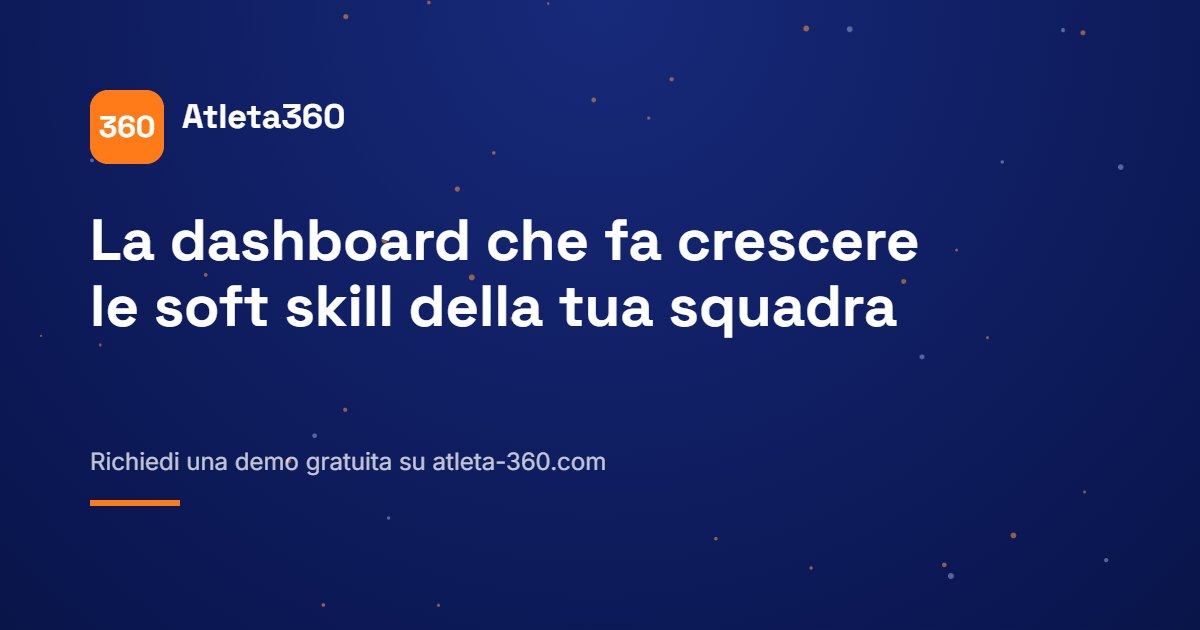
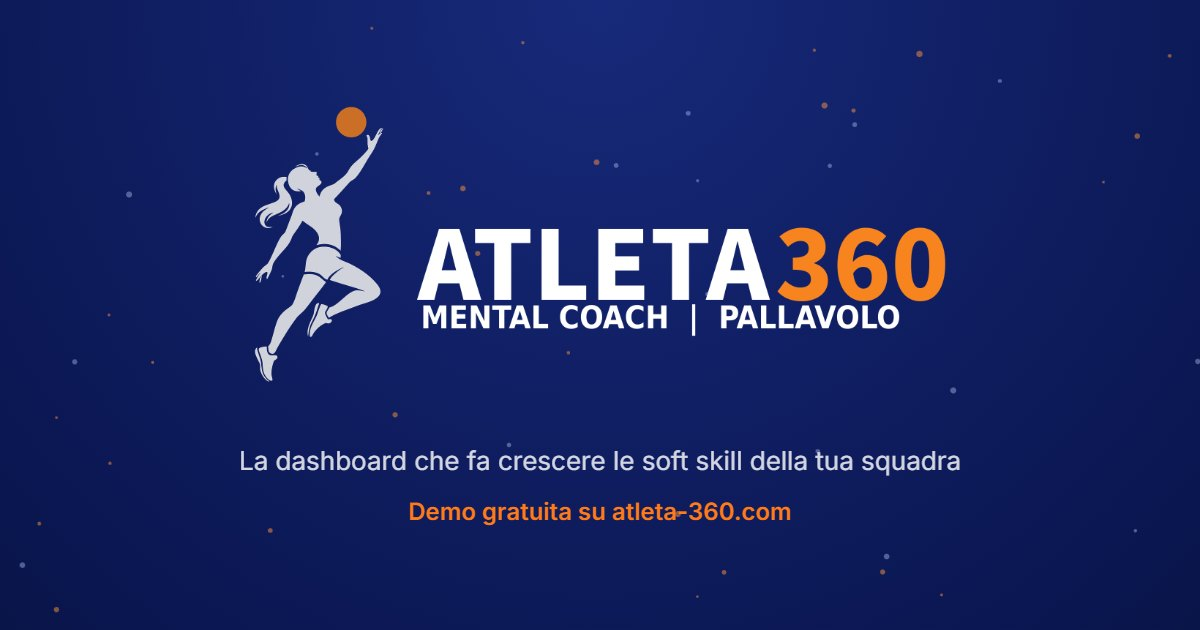
Loghi ufficiali, link Instagram e pagina /contatti per le campagne
Integra i nuovi loghi Atleta360 (da OneDrive/Immagini/LogoAtleta360):
versione bianca estesa nell'hero e nel footer, icona esagonale come
favicon, immagine OG rigenerata col logo vero. Aggiunge il link alla
pagina Instagram @atleta360.volley nel footer.

Nuova pagina /contatti (con rewrite SPA su Vercel): modulo lead
standalone da usare come destinazione delle campagne, con toggle
società/atleta e deep-link ?tipo=atleta|societa per preselezionare
il percorso. Stesso flusso di sempre: consenso privacy, salvataggio
su Supabase, evento Lead del Pixel, redirect alla demo.

diff --git a/src/ContactPage.jsx b/src/ContactPage.jsx
@@ -1,0 +1,85 @@
+import { useState } from "react";
+import { User, Building2 } from "lucide-react";
+import { C, font, display } from "./theme";
+import LeadForm from "./LeadForm";
+
+/* Pagina lead dedicata alle campagne (atleta-360.com/contatti).
+   Deep-link per le ads: /contatti?tipo=societa oppure /contatti?tipo=atleta
+   preseleziona il percorso; senza parametro parte su "società" (il target
+   tipico delle campagne CTA). */
+
+export function getContactTipoFromUrl() {
+  const t = new URLSearchParams(window.location.search).get("tipo");
+  return t === "atleta" ? "atleta" : "societa";
+}
+
+function Toggle({ tipo, onChange }) {
+  const opt = (value, Icon, label) => {
+    const active = tipo === value;
+    return (
+      <button
+        onClick={() => onChange(value)}
+        style={{
+          ...font, flex: 1, display: "inline-flex", alignItems: "center", justifyContent: "center",
+          gap: 7, padding: "10px 14px", borderRadius: 11, cursor: "pointer",
+          fontSize: 13.5, fontWeight: 600,
+          background: active ? C.orange : "transparent",
+          color: active ? "#fff" : "rgba(255,255,255,0.75)",
+          border: active ? "1px solid transparent" : "1px solid rgba(255,255,255,0.22)",
+        }}
+      >
+        <Icon size={15} /> {label}
+      </button>
+    );
+  };
+  return (
+    <div style={{ display: "flex", gap: 8, width: "100%", maxWidth: 440, margin: "0 auto 18px" }}>
+      {opt("societa", Building2, "Società sportiva")}
+      {opt("atleta", User, "Atleta")}
+    </div>
+  );
+}
+
+export default function ContactPage({ onSuccess, onOpenPrivacy }) {
+  const [tipo, setTipo] = useState(getContactTipoFromUrl);
+
+  return (
+    <div style={{ position: "relative", zIndex: 2, padding: "44px 0 30px" }}>
+      <div style={{ display: "flex", justifyContent: "center", marginBottom: 6 }}>
+        <a href="/" aria-label="Vai alla home di Atleta360">
+          <img
+            src="/logo-esteso-bianco.png"
+            alt="Atleta360 — Mental Coach | Pallavolo"
+            style={{ height: 72, display: "block", filter: "drop-shadow(0 0 22px rgba(255,122,24,0.3))" }}
+          />
+        </a>
+      </div>
+      <h1 style={{
+        ...display, color: "#fff", fontWeight: 700, textAlign: "center",
+        fontSize: "clamp(22px, 4vw, 30px)", lineHeight: 1.25,
+        maxWidth: 560, margin: "0 auto 8px", padding: "0 20px",
+      }}>
+        Prova subito la demo gratuita di Atleta360
+      </h1>
+      <p style={{
+        ...font, color: "rgba(255,255,255,0.72)", fontSize: 14.5, lineHeight: 1.6,
+        textAlign: "center", maxWidth: 480, margin: "0 auto 24px", padding: "0 20px",
+      }}>
+        Lascia i tuoi contatti e entri subito nella dashboard, con dati di esempio. Senza impegno.
+      </p>
+
+      <div style={{ padding: "0 20px" }}>
+        <Toggle tipo={tipo} onChange={setTipo} />
+      </div>
+
+      <LeadForm
+        key={tipo}
+        tipo={tipo}
+        compact
+        onBack={null}
+        onOpenPrivacy={onOpenPrivacy}
+        onSuccess={onSuccess}
+      />
+    </div>
+  );
+}

diff --git a/src/cinematic/SiteFooter.jsx b/src/cinematic/SiteFooter.jsx
@@ -1,6 +1,6 @@
-import { Linkedin, Mail, Calendar } from "lucide-react";
-import { C, font, display } from "../theme";
-import { WHATSAPP_URL, LINKEDIN_URL, BOOKING_URL, CONTACT_EMAIL } from "./contactsConfig";
+import { Linkedin, Instagram, Mail, Calendar } from "lucide-react";
+import { font } from "../theme";
+import { WHATSAPP_URL, LINKEDIN_URL, INSTAGRAM_URL, BOOKING_URL, CONTACT_EMAIL } from "./contactsConfig";
 
 const linkStyle = {
   ...font, display: "inline-flex", alignItems: "center", gap: 7,
@@ -18,14 +18,11 @@ export default function SiteFooter({ onOpenPrivacy }) {
         maxWidth: 920, margin: "0 auto", display: "flex", flexWrap: "wrap",
         alignItems: "center", justifyContent: "space-between", gap: 20,
       }}>
-        <div style={{ display: "inline-flex", alignItems: "center", gap: 9 }}>
-          <div style={{
-            width: 30, height: 30, borderRadius: 9, background: C.orange,
-            display: "flex", alignItems: "center", justifyContent: "center",
-            ...display, fontWeight: 700, color: "#fff", fontSize: 11,
-          }}>360</div>
-          <span style={{ ...display, color: "#fff", fontWeight: 700, fontSize: 15 }}>Atleta360</span>
-        </div>
+        <img
+          src="/logo-esteso-bianco.png"
+          alt="Atleta360 — Mental Coach | Pallavolo"
+          style={{ height: 40, display: "block" }}
+        />
 
         <div style={{ display: "flex", flexWrap: "wrap", gap: 20, alignItems: "center" }}>
           <a href={bookingHref} style={linkStyle} target={bookingHref.startsWith("http") ? "_blank" : undefined} rel="noreferrer">
@@ -33,6 +30,9 @@ export default function SiteFooter({ onOpenPrivacy }) {
           </a>
           <a href={`mailto:${CONTACT_EMAIL}`} style={linkStyle}>
             <Mail size={15} /> {CONTACT_EMAIL}
+          </a>
+          <a href={INSTAGRAM_URL} target="_blank" rel="noreferrer" style={linkStyle}>
+            <Instagram size={15} /> @atleta360.volley
           </a>
           <a href={LINKEDIN_URL} target="_blank" rel="noreferrer" style={linkStyle}>
             <Linkedin size={15} /> LinkedIn

diff --git a/src/cinematic/CinematicHero.jsx b/src/cinematic/CinematicHero.jsx
@@ -1,7 +1,7 @@
 import { useEffect, useRef, useState } from "react";
 import { gsap } from "gsap";
 import { ChevronDown, User, Building2 } from "lucide-react";
-import { C, font, display } from "../theme";
+import { font, display } from "../theme";
 import { ChoiceCard } from "../LandingHero";
 import RadarHero from "./RadarHero";
 
@@ -81,14 +81,12 @@ export default function CinematicHero({ onChoose, stageRef }) {
       display: "flex", flexDirection: "column", alignItems: "center",
       padding: "56px 20px 40px",
     }}>
-      <div ref={badgeRef} style={{ display: "inline-flex", alignItems: "center", gap: 11, marginBottom: 8, opacity: 0 }}>
-        <div style={{
-          width: 42, height: 42, borderRadius: 12, background: C.orange,
-          display: "flex", alignItems: "center", justifyContent: "center",
-          ...display, fontWeight: 700, color: "#fff", fontSize: 14, letterSpacing: -0.5,
-          boxShadow: "0 0 32px rgba(255,122,24,0.75)",
-        }}>360</div>
-        <div style={{ ...display, color: "#fff", fontWeight: 700, fontSize: 22, letterSpacing: -0.3 }}>Atleta360</div>
+      <div ref={badgeRef} style={{ marginBottom: 8, opacity: 0 }}>
+        <img
+          src="/logo-esteso-bianco.png"
+          alt="Atleta360 — Mental Coach | Pallavolo"
+          style={{ height: 84, display: "block", filter: "drop-shadow(0 0 26px rgba(255,122,24,0.35))" }}
+        />
       </div>
 
       <div ref={radarRef} style={{ margin: "6px 0 -18px", opacity: 0 }}>

diff --git a/src/LeadForm.jsx b/src/LeadForm.jsx
@@ -30,7 +30,7 @@ const linkBtn = {
   display: "inline-flex", alignItems: "center", gap: 6,
 };
 
-export default function LeadForm({ tipo, onBack, onSuccess, onOpenPrivacy }) {
+export default function LeadForm({ tipo, onBack, onSuccess, onOpenPrivacy, compact = false }) {
   const [form, setForm] = useState({ nome: "", cognome: "", email: "", telefono: "", societa: "", ruolo: "" });
   const [consenso, setConsenso] = useState(false);
   const [busy, setBusy] = useState(false);
@@ -54,13 +54,15 @@ export default function LeadForm({ tipo, onBack, onSuccess, onOpenPrivacy }) {
 
   return (
     <div style={{
-      ...font, position: "relative", zIndex: 2, minHeight: "100vh",
+      ...font, position: "relative", zIndex: 2, minHeight: compact ? undefined : "100vh",
       display: "flex", alignItems: "center", justifyContent: "center", padding: 20,
     }}>
       <div style={{ width: "100%", maxWidth: 440 }}>
-        <button onClick={onBack} style={{ ...linkBtn, marginBottom: 18 }}>
-          <ArrowLeft size={15} /> Indietro
-        </button>
+        {onBack && (
+          <button onClick={onBack} style={{ ...linkBtn, marginBottom: 18 }}>
+            <ArrowLeft size={15} /> Indietro
+          </button>
+        )}
 
         <div style={{ background: C.card, borderRadius: 18, padding: 26, boxShadow: "0 20px 60px rgba(0,0,0,0.28)" }}>
           <div style={{ display: "flex", alignItems: "center", gap: 10, marginBottom: 4 }}>

diff --git a/src/App.jsx b/src/App.jsx
@@ -5,6 +5,7 @@ import { supabaseConfigured } from "./supabaseClient";
 import { demoUrl } from "./leads";
 import { initPixelIfConsented, trackLead } from "./pixel";
 import LeadForm from "./LeadForm";
+import ContactPage from "./ContactPage";
 import PrivacyPage from "./PrivacyPage";
 import CookieBanner from "./CookieBanner";
 import CinematicStage from "./cinematic/CinematicStage";
@@ -74,9 +75,22 @@ export default function App() {
     </>
   );
 
+  const isContactRoute = window.location.pathname.replace(/\/+$/, "") === "/contatti";
+
   let content;
   if (redirecting) {
     content = <Redirecting />;
+  } else if (isContactRoute) {
+    content = (
+      <ContactPage
+        onOpenPrivacy={() => setShowPrivacy(true)}
+        onSuccess={(chosenTipo) => {
+          trackLead(chosenTipo);
+          setRedirecting(true);
+          window.location.href = demoUrl(chosenTipo);
+        }}
+      />
+    );
   } else if (tipo) {
     content = (
       <LeadForm

diff --git a/index.html b/index.html
@@ -2,7 +2,8 @@
 <html lang="it">
   <head>
     <meta charset="UTF-8" />
-    <link rel="icon" type="image/svg+xml" href="/favicon.svg" />
+    <link rel="icon" type="image/png" href="/logo-icona.png" />
+    <link rel="apple-touch-icon" href="/logo-icona.png" />
     <meta name="viewport" content="width=device-width, initial-scale=1.0" />
     <meta name="theme-color" content="#0A1650" />
     <meta name="description" content="Atleta360 — la dashboard per far crescere le soft skill della tua squadra. Richiedi una demo gratuita." />

diff --git a/src/cinematic/contactsConfig.js b/src/cinematic/contactsConfig.js
@@ -17,6 +17,9 @@ export const WHATSAPP_URL =
 // URL completo del profilo LinkedIn.
 export const LINKEDIN_URL = "https://www.linkedin.com/";
 
+// Pagina Instagram dedicata al progetto Atleta360.
+export const INSTAGRAM_URL = "https://www.instagram.com/atleta360.volley/";
+
 // Link di prenotazione (Calendly o simile). "#" finché non esiste.
 export const BOOKING_URL = "#";
 
